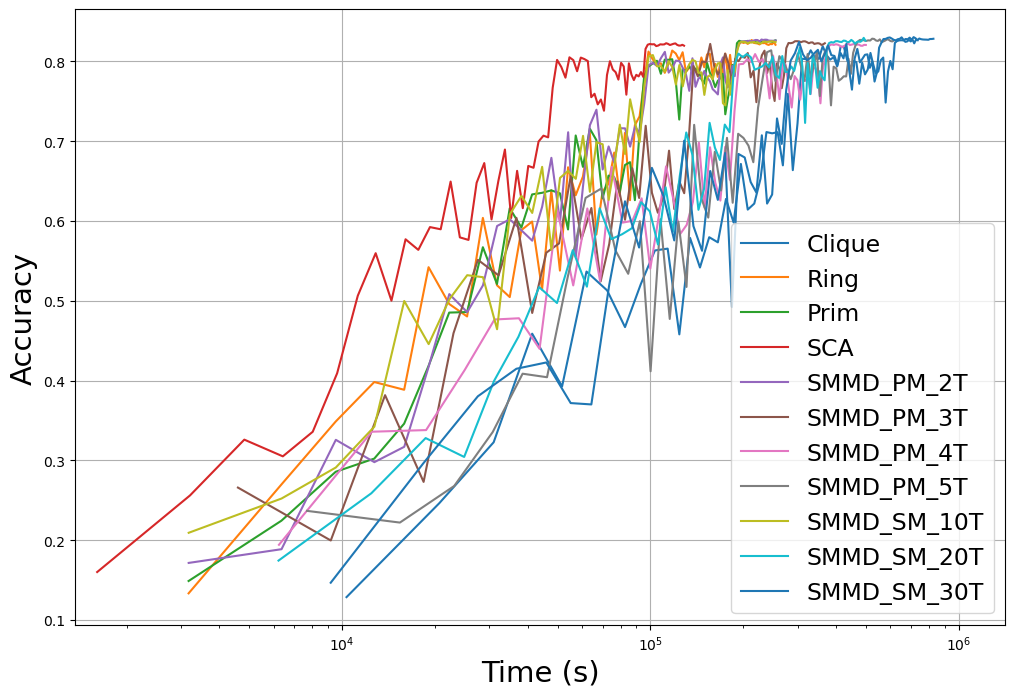
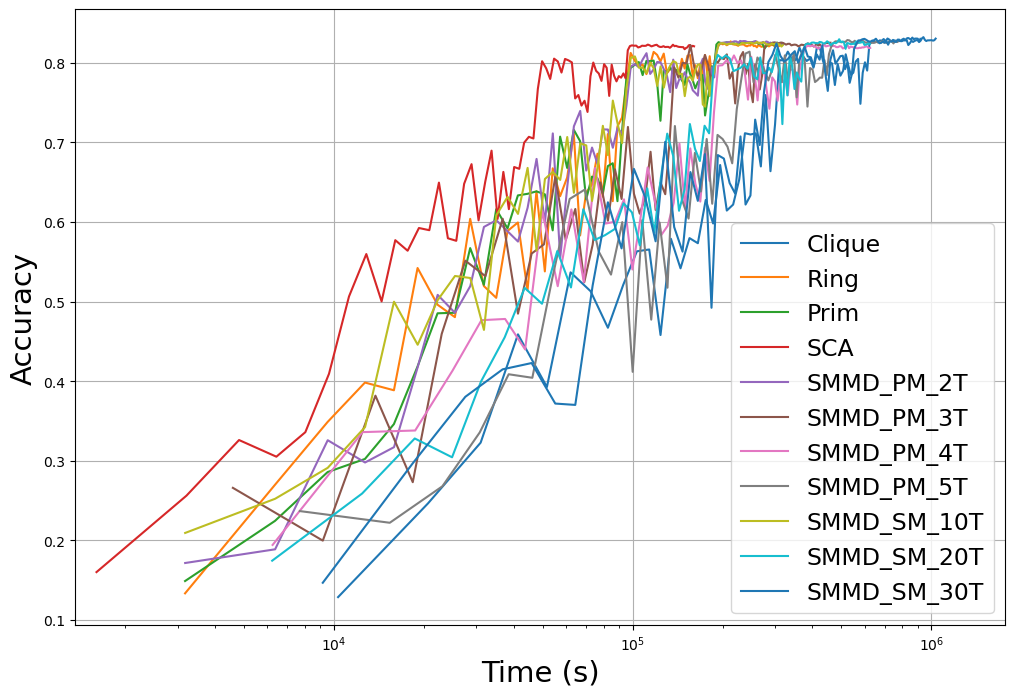
Tingyang: update plots

diff --git a/readpkcopy.py b/readpkcopy.py
@@ -26,7 +26,7 @@ all_file_paths = [
 ]
 
 # Set the mode to either "SMMD_PM", "SMMD_SM", or "all"
-mode = "all"   # Change this value to choose the desired mode
+mode = "SMMD_SM"   # Change this value to choose the desired mode
 
 if mode == "SMMD_PM":
     file_paths = [fp for fp in all_file_paths if "SMMD_PM" in fp]
@@ -113,7 +113,7 @@ withinfer = ""
 data_type = "CIFAR10"
 network_type = "Roofnet"
 threshold = 0.15 if data_type == "MNIST" else 0.001
-epoch = 100 if data_type == "MNIST" else 80
+epoch = 100 if data_type == "MNIST" else 100
 model = "cnn" if data_type == "MNIST" else "resnet"
 
 # Update the categorized_results dictionary if needed
